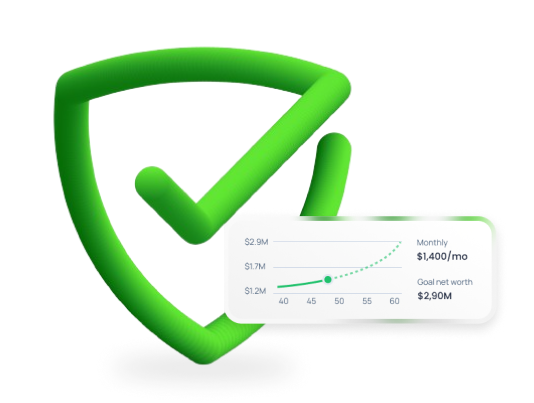
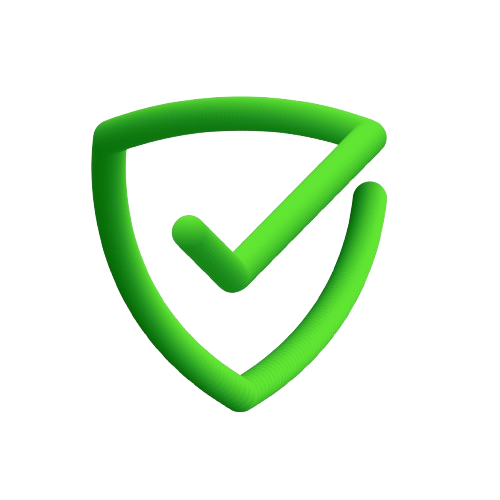
optimise images

diff --git a/src/modules/home/components/why-we-exist.tsx b/src/modules/home/components/why-we-exist.tsx
@@ -42,14 +42,21 @@ const WhyWeExist: React.FC = () => {
                         <Image width={220} height={254} alt="efficiency" src="/assets/images/3d-cards.png" />
                     </div>
                 </div>
-                <div className="bg-gradient-to-r to-[hsla(0,0%,91%,1)] from-[hsla(0,0%,100%,1)] rounded-2xl p-8 h-full space-y-6 items-center justify-center shadow-sm">
+                <div className="relative bg-gradient-to-r to-[hsla(0,0%,91%,1)] from-[hsla(0,0%,100%,1)] rounded-2xl p-8 h-full space-y-6 items-center justify-center shadow-sm">
                     <Badge>• Our Mission</Badge>
                     <Image
-                        width={220}
-                        height={254}
+                        width={1000}
+                        height={500}
                         alt="secured"
-                        className="w-full"
+                        className="w-11/12"
                         src="/assets/images/secured-3d.png"
+                    />
+                     <Image
+                        width={1000}
+                        height={1000}
+                        alt="group-transact"
+                        className="w-min absolute top-86 right-20"
+                        src="/assets/images/group-transact.png"
                     />
                     <div className="gap-6 w-full flex">
                         <h4 className="text-2xl">To Simplify Global Payments</h4>

diff --git a/src/modules/home/components/hero.tsx b/src/modules/home/components/hero.tsx
@@ -29,7 +29,7 @@ const Hero: React.FC = () => {
                 width={803}
                 height={455}
                 alt="product-shot"
-                className="w-full z-10 relative"
+                className="w-10/12 mx-auto z-10 relative"
                 src="/assets/images/dashboard-screenshot.png"
             />
             <Image
